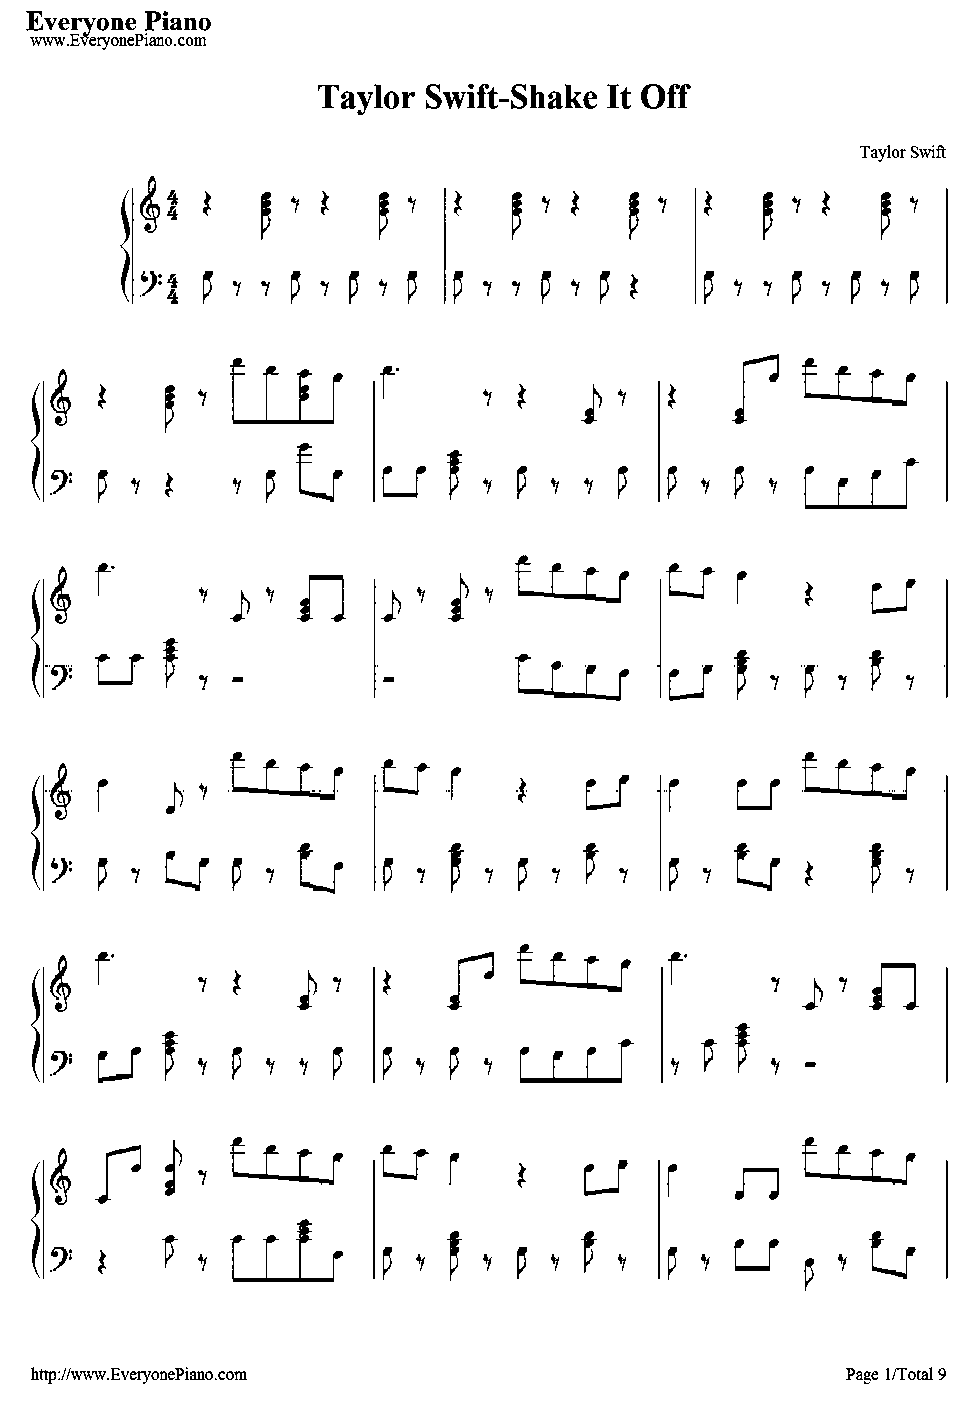
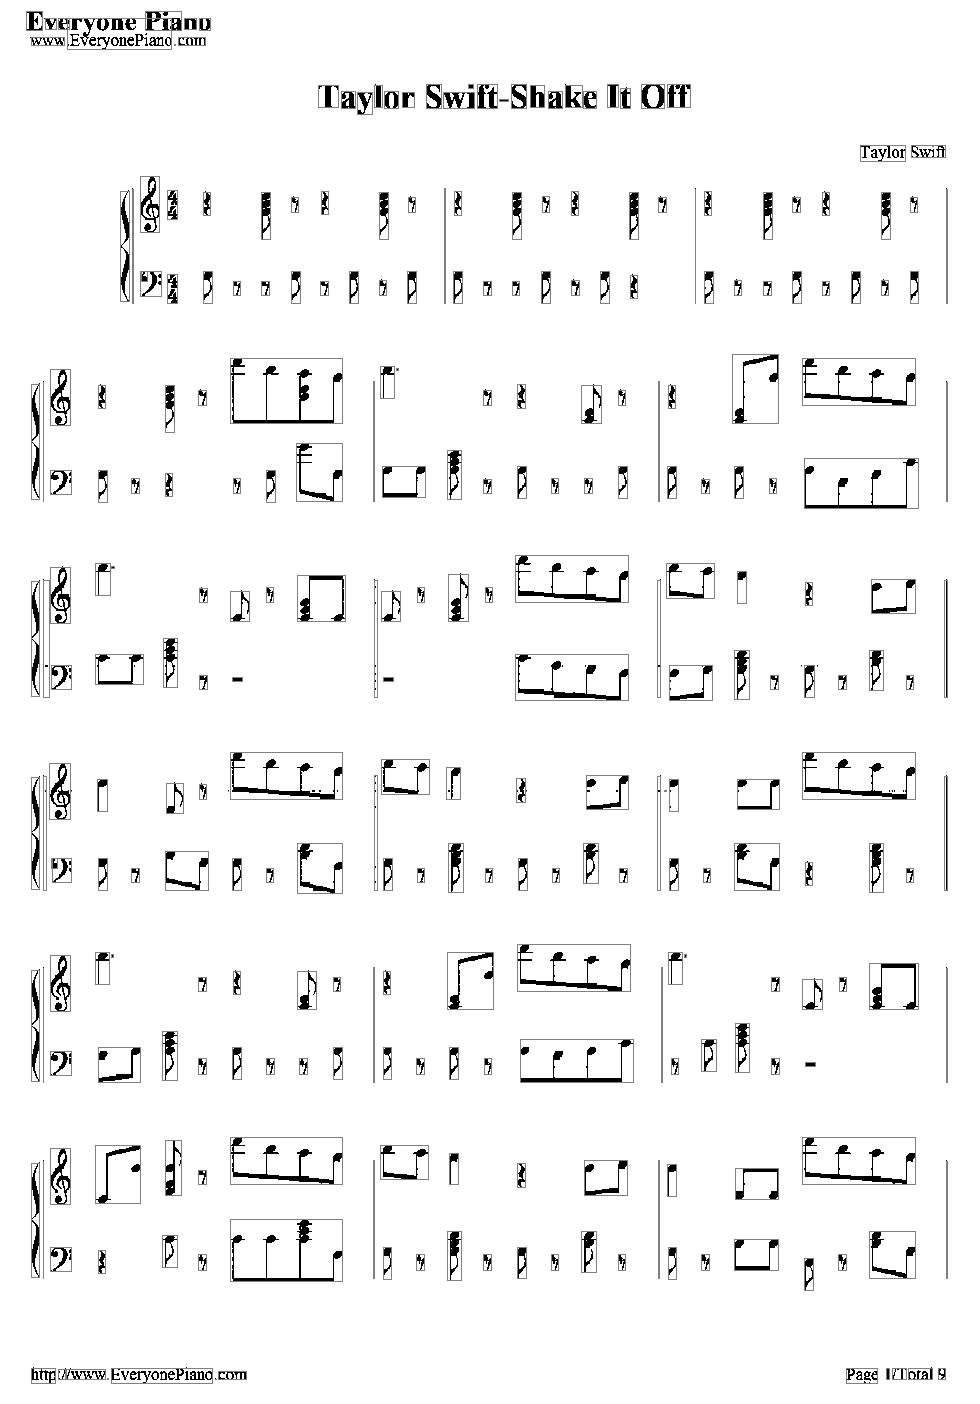
Flood Detection algorithm added.

diff --git a/image_cleanup.py b/image_cleanup.py
@@ -3,34 +3,109 @@ import numpy as np
 
 TEST_IMAGE = "/home/qk/Projects/music_recognition_project/test_data/taylor_swift_shake_it_off/1.png"
 
+def eliminateStaffLines(img):
+	"""
+		Eliminates staff lines from a single-channel binary image of a music sheet.
+
+		Args:
+			img: Single channel binary image of a music sheet.
+
+		Returns:
+			Modified image.
+	"""
+	img_height = img.shape[0]
+	img_width = img.shape[1]
+
+	staff_line_idx = []
+
+	for row in range(img_height):
+		if np.bincount(img[row])[0] > img_width / 2:
+			# This is an important row.
+			staff_line_idx.append(row)
+
+	count = 0
+	for row in staff_line_idx:
+		if staff_line_idx[min(count+1, len(staff_line_idx) - 1)] == row + 1:
+			dist = 2
+			del staff_line_idx[min(count+1, len(staff_line_idx))]
+		else:
+			dist = 1
+
+		for col in range(img_width):
+			if img[row - 1][col] == 255 and img[row + dist][col] == 255:
+				img[row][col] = 255
+				img[row + dist / 2][col] = 255
+		count += 1
+	return thresh
+
+def floodDetection(img):
+	"""
+		Performs flood detection on a single-channel binary image of a music sheet.
+
+		Args:
+			img: Single channel binary image of a music sheet.
+
+		Returns:
+			Array of bounding boxes for each of the objects detected.
+	"""
+	img_height = img.shape[0]
+	img_width = img.shape[1]
+	temp_image = np.copy(img)
+	flood_window = [-2, -1, 0, 1, 2]
+	detected_rois = []
+
+	for row in range(img_height):
+		for col in range(img_width):
+			# Basic flood detection algorithm.
+			if temp_image[row][col] == 0:
+				min_x = -1
+				min_y = -1
+				max_x = -1
+				max_y = -1
+
+				pixels = []
+				pixels.append([row, col])
+				for pixel in pixels:
+					for sub_row in flood_window:
+						for sub_col in flood_window:
+							# Disregard 0,0.
+							if sub_row == sub_col and sub_row == 0:
+								pass
+							# Disregard image borders.
+							elif pixel[0] + sub_row > img_height or pixel[1] + sub_col > img_width:
+								pass
+							# If you find a black pixel, append.
+							elif temp_image[pixel[0] + sub_row][pixel[1] + sub_col] == 0:
+								# Check if that pixel is not already in the pixels.
+								new_pixel = [pixel[0] + sub_row,pixel[1] + sub_col]
+								if new_pixel not in pixels:
+									pixels.append(new_pixel)
+									if new_pixel[1] < min_x or min_x < 0:
+										min_x = new_pixel[1]
+									if new_pixel[1] > max_x or max_x < 0:
+										max_x = new_pixel[1]
+									if new_pixel[0] < min_y or min_y < 0:
+										min_y = new_pixel[0]
+									if new_pixel[0] > max_y or max_y < 0:
+										max_y = new_pixel[0]
+				# Whiten out the pixels we have already selected.
+				cv2.rectangle(temp_image, (min_x, min_y), (max_x, max_y), 255, cv2.FILLED)
+
+				# Add to list of ROIs.
+				detected_rois.append([min_x, min_y, max_x, max_y])
+	return detected_rois
+
 # TODO(dcastro): Change 0 to cv2.grayscale or whichever it is.
 img = cv2.imread(TEST_IMAGE, 0)
 
 # Threshold the image.
 ret, thresh = cv2.threshold(img, 255 * 2 / 3, 255, cv2.THRESH_BINARY)
 
-img_height = thresh.shape[0]
-img_width = thresh.shape[1]
+thresh = eliminateStaffLines(thresh)
 
-staff_line_idx = []
+rois = floodDetection(thresh)
 
-for row in range(len(thresh)):
-	if np.bincount(thresh[row])[0] > img_width / 2:
-		# This is an important row.
-		staff_line_idx.append(row)
-
-count = 0
-for row in staff_line_idx:
-	if staff_line_idx[min(count+1, len(staff_line_idx) - 1)] == row + 1:
-		dist = 2
-		del staff_line_idx[min(count+1, len(staff_line_idx))]
-	else:
-		dist = 1
-
-	for col in range(img_width):
-		if thresh[row - 1][col] == 255 and thresh[row + dist][col] == 255:
-			thresh[row][col] = 255
-			thresh[row + dist / 2][col] = 255
-	count += 1
+for roi in rois:
+	cv2.rectangle(thresh, (roi[0], roi[1]), (roi[2], roi[3]), 128, 1)
 
 cv2.imwrite("out.png", thresh)
